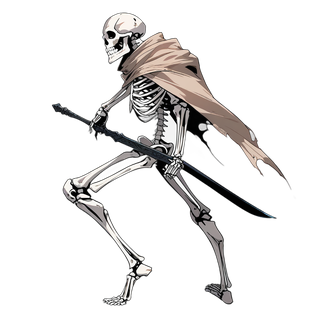
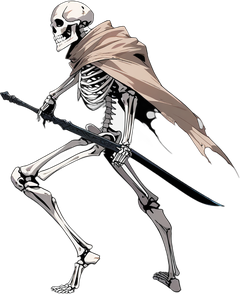
v0.13.0: 敵の表示を修正・拡大、ロビーの同名二重表示を解消
【画像の余白バグ】背景を白で描かせているため透明部分にもRGB=白が残り、
色を見る Pillow の getbbox() が画像全体を返していた。そのため余白ごと
縮小されてキャラが小さくなり、中身が寄っている画像ではHPバーがずれていた
(ウィスプ+38px、騎士-23.5px、魚+23px)。不透明度だけで判定するよう修正し、
既存画像は --retrim で作り直さずに余白だけ落とした。

【ヨルコウモリのHPバーのずれ】翼を広げた構図で本体が右端に寄っており、
画像中央に置かれるHPバーが胴から外れて見えていた。翼を畳んだ中央寄りの
構図で描き直した。偏りは check_centered が自動で警告する。

【敵の拡大】ENEMY_SCALE を新設し、敵だけさらに1.5倍にした。大きくしたぶん
右端がはみ出すため、敵の配置を内側に寄せて間隔を広げた(サーバー側も同じ値)。

【ロビーの同名二重表示】通信断をサーバーが検知するまでの間に自動再接続すると
同じ人が2件並んでいた。同じ名前で入り直したら古い接続を閉じる。閉じた側は
理由コード4001を受け取り自動再接続をやめる(やめないと互いに閉じ合って続く)。
test/lobby_dup_check.ts を追加。

Changed region(s): [[0.0, 0.0, 1.0, 1.0], [0.6708, 0.4898, 0.7, 0.5204]]

diff --git a/test/lobby_dup_check.ts b/test/lobby_dup_check.ts
@@ -1,0 +1,92 @@
+// 同じニックネームの接続が「現在オンライン」に二重に並ばないかを確かめる。
+//
+// 通信が切れてもサーバーが気づくまで間があるため、自動再接続すると
+// 同じ人が2件表示されることがあった。入り直したら古い接続を閉じる仕様を検証する。
+//
+//   npx tsx test/lobby_dup_check.ts   (サーバー起動済みであること)
+
+import { Client } from 'colyseus.js';
+import type { Room } from 'colyseus.js';
+import { CODE_REPLACED } from '../shared/netcodes';
+
+const ENDPOINT = process.env.MADOKEN_ENDPOINT ?? 'ws://localhost:2567';
+const HTTP_BASE = ENDPOINT.replace(/^ws/, 'http');
+
+const RUN = Math.random().toString(36).slice(2, 7);
+const NAME = `tD${RUN}`;
+const TOKEN = `tok${RUN}`;
+
+let failures = 0;
+function check(label: string, cond: boolean, detail = ''): void {
+  console.log(`${cond ? '✓' : '✗'} ${label}${detail ? ` — ${detail}` : ''}`);
+  if (!cond) failures++;
+}
+
+const sleep = (ms: number) => new Promise(r => setTimeout(r, ms));
+
+async function waitFor(cond: () => boolean, ms = 10_000): Promise<boolean> {
+  const end = Date.now() + ms;
+  while (Date.now() < end) {
+    if (cond()) return true;
+    await sleep(100);
+  }
+  return false;
+}
+
+function namesIn(room: Room): string[] {
+  const st = room.state as {
+    players?: { forEach(cb: (p: { name: string }) => void): void };
+  };
+  const out: string[] = [];
+  st?.players?.forEach(p => out.push(p.name));
+  return out;
+}
+
+async function main(): Promise<void> {
+  console.log('=== ロビーの同名二重表示の検証 ===');
+  console.log(`対象: ${ENDPOINT}  名前: ${NAME}`);
+
+  const client = new Client(ENDPOINT);
+  let first: Room | null = null;
+  let second: Room | null = null;
+  let firstLeaveCode = -1;
+
+  try {
+    // 1つ目の接続(切れたことにサーバーがまだ気づいていない古い接続の代わり)
+    first = await client.joinOrCreate('lobby_chat', { name: NAME, nickToken: TOKEN });
+    first.onLeave((code?: number) => { firstLeaveCode = code ?? -1; });
+    await waitFor(() => namesIn(first!).includes(NAME));
+    check('1つ目の接続が在室者に載る',
+      namesIn(first).filter(n => n === NAME).length === 1);
+
+    // 2つ目の接続(自動再接続に相当)
+    second = await client.joinOrCreate('lobby_chat', { name: NAME, nickToken: TOKEN });
+    await sleep(1500);
+
+    const names = namesIn(second);
+    const dup = names.filter(n => n === NAME).length;
+    check('入り直しても同じ名前は1件だけ', dup === 1,
+      `${dup}件 / 在室 ${names.length}人`);
+
+    // 古い接続は閉じられ、理由コードが伝わる
+    const closed = await waitFor(() => firstLeaveCode !== -1, 8000);
+    check('古い接続は閉じられる', closed);
+    check('理由コードが「入り直し」である', firstLeaveCode === CODE_REPLACED,
+      `code=${firstLeaveCode}`);
+  } catch (err) {
+    check('テストの実行', false, (err as Error).message);
+  } finally {
+    try { await second?.leave(); } catch { /* 無視 */ }
+    try { await first?.leave(); } catch { /* 無視 */ }
+    await fetch(`${HTTP_BASE}/api/name/release`, {
+      method: 'POST',
+      headers: { 'Content-Type': 'application/json' },
+      body: JSON.stringify({ name: NAME, token: TOKEN }),
+    }).catch(() => undefined);
+  }
+
+  console.log(failures === 0 ? '\n=== 合格 ===' : `\n=== ${failures}件 失敗 ===`);
+  process.exit(failures === 0 ? 0 : 1);
+}
+
+void main();

diff --git a/server/rooms/LobbyChatRoom.ts b/server/rooms/LobbyChatRoom.ts
@@ -9,7 +9,8 @@ import { clientIp, logConnection } from '../connlog';
 import { setRoomPresence } from '../presence';
 import { claimName } from '../names';
 import { addLobbySink } from '../lobbyfeed';
-import { clampNickname, normalizeNickname } from '../../shared/nickname';
+import { clampNickname, nicknameKey, normalizeNickname } from '../../shared/nickname';
+import { CODE_REPLACED } from '../../shared/netcodes';
 
 const { Room } = colyseusPkg;
 
@@ -62,10 +63,30 @@ export class LobbyChatRoom extends Room<LobbyState> {
     return { ip: clientIp(request), name };
   }
 
+  // 同じ名前の古い接続を閉じる。
+  //
+  // 通信が切れても、サーバーが切断に気づくまでには間がある(スリープや電波断だと
+  // 特に長い)。その間に自動再接続すると、同じ人が在室者リストに2件並んでしまう。
+  // ニックネームは1人1つなので、名前が同じ = 同じ人とみなして古い方を閉じる。
+  private dropOlderSessions(name: string, keep: Client): void {
+    const key = nicknameKey(name);
+    for (const other of [...this.clients]) {
+      if (other.sessionId === keep.sessionId) continue;
+      const p = this.state.players.get(other.sessionId);
+      if (!p || nicknameKey(p.name) !== key) continue;
+      this.replaced.add(other.sessionId); // 「退出した」とは知らせない
+      this.state.players.delete(other.sessionId);
+      other.leave(CODE_REPLACED);
+    }
+  }
+
+  private replaced = new Set<string>();
+
   onJoin(client: Client, options: { name?: unknown }): void {
     const auth = client.auth as { name?: string } | undefined;
     const p = new LobbyPlayer();
     p.name = clampNickname(auth?.name || options?.name) || '名無し';
+    this.dropOlderSessions(p.name, client);
     this.state.players.set(client.sessionId, p);
     logConnection('ロビー', p.name, (client.auth as { ip?: string } | undefined)?.ip ?? '');
     this.syncPresence();
@@ -73,6 +94,11 @@ export class LobbyChatRoom extends Room<LobbyState> {
   }
 
   onLeave(client: Client): void {
+    // 入り直しで閉じた古い接続は、退出として扱わない(入退出が二重に流れる)
+    if (this.replaced.delete(client.sessionId)) {
+      this.syncPresence();
+      return;
+    }
     const p = this.state.players.get(client.sessionId);
     if (p) {
       this.broadcast('chat', { name: 'システム', text: `${p.name} が退出した` });

diff --git a/src/battle.ts b/src/battle.ts
@@ -6,7 +6,7 @@
 import { Application, Container, Graphics, Sprite, Text } from 'pixi.js';
 import {
   affinityMul, affinitySymbol, battleRP, bossForStage, ELEMENTS, ELEMENT_ORDER,
-  ENEMY_ATK_MUL, ENEMY_HP_MUL, enemyTopY, isBossStage, pickEnemiesForStage,
+  ENEMY_ATK_MUL, ENEMY_HP_MUL, ENEMY_SCALE, enemyTopY, isBossStage, pickEnemiesForStage,
   PLAYER_MAX_HP, PLAYER_MAX_MP, SPRITE_SCALE, stageAtkMul, stageHpMul,
 } from '../shared/data';
 import type { AffinityGrade, EnemyDef } from '../shared/data';
@@ -264,9 +264,10 @@ export class BattleManager {
 
     // 敵配置
     const defs = this.pickEnemies();
-    const xs = defs.length === 1 ? [770]
-      : defs.length === 2 ? [690, 860]
-      : [630, 755, 875];
+    // 敵を大きくしたぶん、右端がはみ出さないよう内側に寄せて間隔を広げた
+    const xs = defs.length === 1 ? [760]
+      : defs.length === 2 ? [660, 850]
+      : [580, 725, 865];
     defs.forEach((def, i) => {
       const { cont, body } = makeEnemySprite(def);
       cont.position.set(xs[i], GROUND_Y);
@@ -1111,7 +1112,8 @@ export function makeEnemySprite(def: EnemyDef): { cont: Container; body: Graphic
       body.circle(-11, -23, 1.5).fill(0x110011);
       break;
   }
-  body.scale.set(def.size * SPRITE_SCALE); // 図形描画も画像と同じ大きさに揃える
+  // 図形描画も画像と同じ大きさに揃える(片方だけ小さいと差し替え時に破綻する)
+  body.scale.set(def.size * SPRITE_SCALE * ENEMY_SCALE);
   cont.addChild(body);
   return { cont, body };
 }

diff --git a/src/lobby.ts b/src/lobby.ts
@@ -8,6 +8,7 @@ import { spellDisplayName } from '../shared/spellcraft';
 import {
   NICK_MAX_FULL, NICK_MAX_WIDTH, normalizeNickname, validateNickname,
 } from '../shared/nickname';
+import { CODE_REPLACED } from '../shared/netcodes';
 import { equippedSpells, notify, state } from './state';
 import { pushCloudSave } from './cloudsave';
 import type { SpellPayload } from '../shared/protocol';
@@ -218,11 +219,19 @@ function wireLobby(room: Room): void {
     addChatLine(msg.name, msg.text);
   });
   room.onStateChange(() => renderMembers());
-  room.onLeave(() => {
+  room.onLeave((code?: number) => {
     lobbyRoom = null;
     $('#online-lobby').classList.add('hidden');
     $('#coop-view').classList.add('hidden');
     $('#online-login').classList.remove('hidden');
+    // 同じ名前で別の場所から入り直された場合は、繋ぎ直すと取り合いになる
+    if (code === CODE_REPLACED) {
+      autoConnect = false;
+      $('#online-msg').textContent =
+        '同じニックネームで別の場所から接続されたため、こちらは切断しました。'
+        + 'この画面で遊ぶ場合は、もう一度「接続」を押してください。';
+      return;
+    }
     $('#online-msg').textContent = autoConnect
       ? '切断された。自動で繋ぎ直します…'
       : '切断された。もう一度接続してください。';

diff --git a/shared/data.ts b/shared/data.ts
@@ -342,9 +342,12 @@ export interface EnemyDef {
 // プレイヤー・敵・頭上のバーや名前が、まとめてこの倍率で拡大される。
 export const SPRITE_SCALE = 1.5;
 
+// 敵だけにさらにかかる倍率(敵はプレイヤーより小さく見えていたので別枠で調整する)
+export const ENEMY_SCALE = 1.5;
+
 // 敵の頭上に置く要素のY(接地点からの相対値)
 export const enemyTopY = (def: EnemyDef) =>
-  SHAPE_TOP[def.shape] * def.size * SPRITE_SCALE;
+  SHAPE_TOP[def.shape] * def.size * SPRITE_SCALE * ENEMY_SCALE;
 
 export const ENEMIES: EnemyDef[] = [
   // --- tier1 (ステージ1〜4) ---

diff --git a/server/rooms/CoopRoom.ts b/server/rooms/CoopRoom.ts
@@ -293,7 +293,8 @@ export class CoopRoom extends Room<CoopState> {
     const defs: EnemyDef[] = isBossStage(stage)
       ? [bossForStage(stage)]
       : pickEnemiesForStage(stage);
-    const xs = defs.length === 1 ? [770] : defs.length === 2 ? [690, 860] : [630, 755, 875];
+    // 敵を大きくしたぶん、右端がはみ出さないよう内側に寄せて間隔を広げた(battle.ts と同じ)
+    const xs = defs.length === 1 ? [760] : defs.length === 2 ? [660, 850] : [580, 725, 865];
 
     // 人数に応じて敵HPを増強(1人=等倍, 2人=1.5倍, 3人=2倍)
     const playerCount = this.state.players.size;

diff --git a/shared/netcodes.ts b/shared/netcodes.ts
@@ -1,0 +1,8 @@
+// サーバーが接続を閉じるときの理由コード(クライアントと共有する)
+//
+// WebSocketの切断コードは 4000〜4999 をアプリ側で自由に使える。
+
+// 同じ名前で入り直したため、古い方の接続を閉じた。
+// クライアントはこれを受け取ったら自動再接続をやめる
+// (やめないと、2つの接続が交互に相手を閉じ合って延々と繰り返す)。
+export const CODE_REPLACED = 4001;

diff --git a/shared/version.ts b/shared/version.ts
@@ -1,5 +1,5 @@
 // バージョン情報(更新時はここだけ書き換える)
 
-export const VERSION = '0.12.2';
-export const BUILD_DATE = '2026-08-02 08:45';
+export const VERSION = '0.13.0';
+export const BUILD_DATE = '2026-08-02 09:02';
 export const COPYRIGHT = 'Copyright © 2026 YuriPapa';

diff --git a/tools/artgen/gen.py b/tools/artgen/gen.py
@@ -194,9 +194,45 @@ def check_cutout(img, ident):
     return True
 
 
-def trim(img):
-    box = img.getbbox()
-    return img.crop(box) if box else img
+def check_centered(img, ident):
+    """絵が左右どちらかに寄りすぎていないか調べる。
+
+    頭上のHPバーと名前は画像の中心に置かれる。翼を広げた鳥のように
+    「本体は右端・左半分は全部翼」という構図だと、バーが本体から外れて見える。
+    """
+    import numpy as np
+    a = np.asarray(img.convert('RGBA'))[..., 3].astype(float)
+    col = a.sum(axis=0)
+    if col.sum() <= 0:
+        return True
+    com = float((col * np.arange(len(col))).sum() / col.sum())
+    off = (com - img.width / 2) / img.width  # 幅に対する割合
+    if abs(off) > 0.08:
+        side = '左' if off < 0 else '右'
+        print(f'  ※ 警告: {ident} は絵が{side}に寄っている(中心から {off * 100:+.0f}%)。'
+              'HPバーが本体からずれて見えるので、構図を変えるか seed を引き直すこと。')
+        return False
+    return True
+
+
+def trim(img, thresh=16):
+    """透明な余白を落とす。
+
+    ※ img.getbbox() を使ってはいけない。白背景で描かせているため、
+      透明部分にも RGB=白 が残っており、色を見る getbbox() は画像全体を返す。
+      その結果「余白ごと目標の高さに縮小」されてキャラが小さくなり、
+      さらに中身が片寄っている画像では頭上のHPバーが横にずれる。
+      不透明度だけで判定すること。
+    """
+    import numpy as np
+    a = np.asarray(img.convert('RGBA'))[..., 3]
+    m = a > thresh
+    rows = np.where(m.any(axis=1))[0]
+    cols = np.where(m.any(axis=0))[0]
+    if len(rows) == 0 or len(cols) == 0:
+        return img
+    return img.crop((int(cols[0]), int(rows[0]),
+                     int(cols[-1]) + 1, int(rows[-1]) + 1))
 
 
 def fit_height(img, target_h):
@@ -273,6 +309,7 @@ def gen_enemy(subj, key, seed):
     check_cutout(cut, f'enemy:{key}')
     out = maybe_flip(fit_height(trim(cut), ENEMY_HEIGHT),
                      subj, f'enemy:{key}')
+    check_centered(out, f'enemy:{key}')
     return save(out, f'enemy/{key}.png')
 
 
@@ -338,16 +375,48 @@ def write_manifest(subj):
 
 # ===== main =====
 
+def retrim_existing():
+    """すでにある画像の透明な余白だけを落とす(絵は作り直さない)。
+
+    余白が残っていると、その分キャラが小さく表示され、頭上のHPバーもずれる。
+    絵柄を変えずに直せるので、作り直しより先にこれを試すこと。
+    """
+    from PIL import Image
+    targets = [os.path.join(IMG_DIR, 'player.png')]
+    for sub in ('enemy', 'proj'):
+        d = os.path.join(IMG_DIR, sub)
+        if os.path.isdir(d):
+            targets += [os.path.join(d, f) for f in sorted(os.listdir(d))
+                        if f.endswith('.png')]
+    for path in targets:
+        if not os.path.exists(path):
+            continue
+        im = Image.open(path).convert('RGBA')
+        cut = trim(im)
+        if cut.size == im.size:
+            print(f'  余白なし: {os.path.basename(path)}')
+            continue
+        cut.save(path)
+        print(f'  余白を除去: {os.path.basename(path)}  '
+              f'{im.width}x{im.height} → {cut.width}x{cut.height}')
+
+
 def main():
     ap = argparse.ArgumentParser()
     ap.add_argument('--only', help='player / background / enemy:blob / proj:fire')
     ap.add_argument('--all', action='store_true', help='全24枚を生成')
     ap.add_argument('--manifest', action='store_true',
                     help='生成せず manifest.json だけ作り直す')
+    ap.add_argument('--retrim', action='store_true',
+                    help='生成せず、既存画像の透明な余白だけ落とす')
     ap.add_argument('--seed', type=int, default=1234)
     args = ap.parse_args()
 
     subj = load_subjects()
+
+    if args.retrim:
+        retrim_existing()
+        return
 
     if args.manifest:
         write_manifest(subj)
